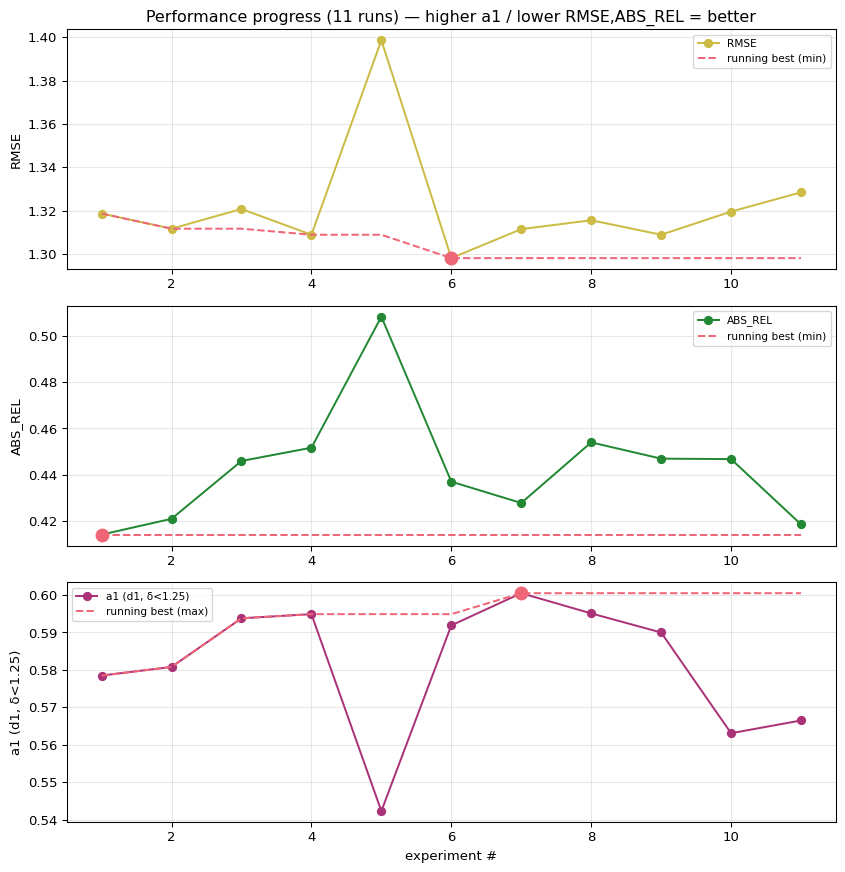
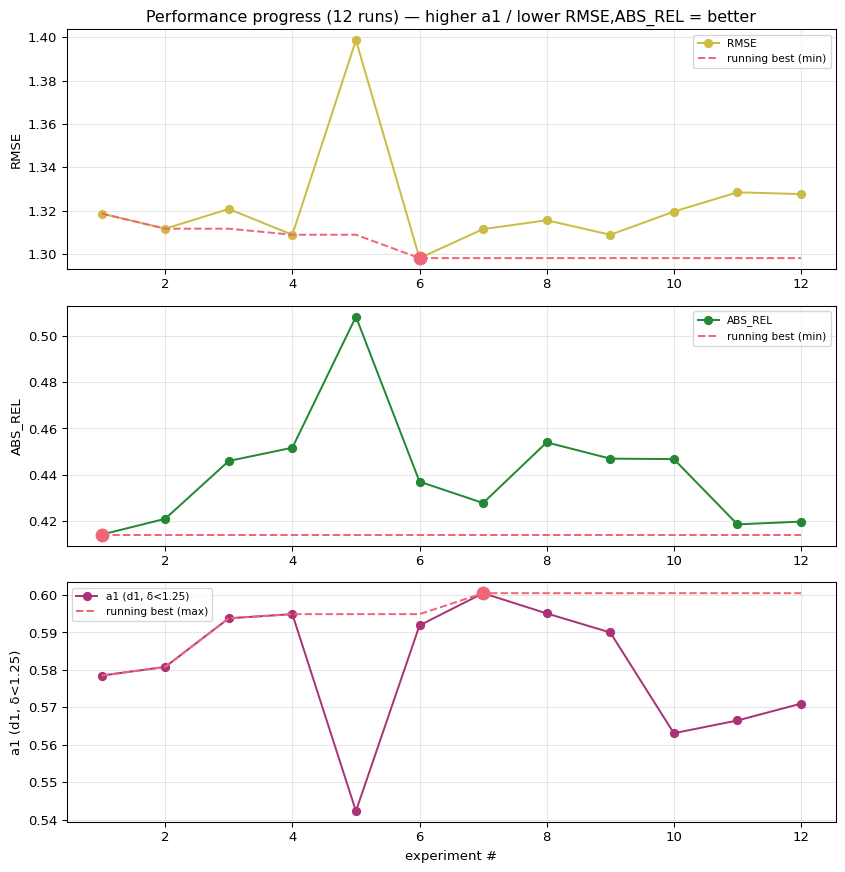
E11: first CONVERGED 2-layer RayDPT -- D9 is 25% budget, 75% still unexplained
E11 raydpt_e11_d32L2_kve4: abs_rel 0.4199  rmse 1.3276  d1 0.5710  composite 1.9093
23 epochs at 143.3 s/epoch, best checkpoint epoch 22 of 23, val loss flat over the last three.
Best RayDPT of the phase, and the first 2-layer configuration ever to converge.

    run                 layers  KV   d1       composite  epochs  best  converged
    E9  d32 L1 kv=e3      1     e3   0.5631   1.9308     21      18    yes
    E10 d32 L2 kv=e3      2     e3   0.5665   1.9192     15      15    NO
    E11 d32 L2 kv=e4      2     e4   0.5710   1.9093     23      22    yes
    E3  batvision         -     -    0.5949   1.8567     25      13    yes

I12 validated on the way: the cost of a ray cross-attention layer is its KV SET, not its FFN.
Shrinking the FFN 4x->2x saves 2 s/epoch; shrinking cr32's KV from e3 (2048 tokens) to e4
(512) takes 231.6 -> 145.4 s/epoch at IDENTICAL parameter count. That is what made a converged
2-layer model possible, and therefore what made D9 answerable at all.

D9's verdict, and it is a split one. On a CONVERGED 2-layer model d1 recovers +0.0079, closing
25% of the 0.0318 gap to batvision. So the angular deficit is PARTLY a budget artefact (H2) --
E10's d1 really was a lower bound on a model still learning -- and PARTLY not: 0.0239 survives
convergence. H1 (ray-conditioning does not aid angular assignment on this task) still stands
for the remaining three quarters. RayDPT still trails the reference by 0.0526 overall.
[…]

diff --git a/README.md b/README.md
@@ -30,7 +30,6 @@ Autonomous research — binaural echoes → ERP planar (cubemap) depth (SoundSpa
 | `I5` | ray conditioning / encoder-decoder correspondence | mid | RayDPT's DPT skip connections impose a FALSE spatial correspondence between the spectrogram's axes and the ERP's axes | inconclusive | none. Do not spend GPU on the skip ablation on this rationale. Revive only with an indepen |
 | `I7` | sensing physics / angular resolution | far | two microphones may fundamentally under-determine high azimuthal frequencies | candidate | Do not chase high-frequency power as a goal. Re-test the observability claim once RayDPT c |
 | `I10` | acoustic-representation / interpolation | mid | the nearest-neighbour resize in _features() turns the time axis into a coarse staircase | inconclusive | deferred confirm: run `--feat-interp bilinear --stft-hop 40` after the RayDPT throughput s |
-| `I12` | ray conditioning / attention cost | near | ray cross-attention costs 67% of forward because it runs over 8192 (and 2048) ray queries | backlog | bench the two cost levers, then run the one that converges. This is the experiment that fi |
 
 ### Open discrepancies
 
@@ -49,6 +48,7 @@ Autonomous research — binaural echoes → ERP planar (cubemap) depth (SoundSpa
 
 | When | Mode | Event | Note |
 |---|---|---|---|
+| 2026-07-10T13:11 | `verify` | experiment_completed | First CONVERGED 2-layer RayDPT: composite 1.9093 (best RayDPT), d1 0.5710, 23 epochs, best at ep22. d1 recovers +0.0079 over E9, c |
 | 2026-07-10T12:09 | `verify` | discrepancy_recorded | D10 (methodological): small-sample diagnostics REVERSE their sign. 60 samples said RayDPT's d1 beat batvision's; the full 3543 say |
 | 2026-07-10T12:03 | `synthesize` | divergence_checkpoint | DC1 after S0-S4. Seven competing hypotheses across six causal families (mechanism, budget, capacity, sensing physics, encoder-deco |
 | 2026-07-10T12:01 | `synthesize` | experiment_completed | cross-layers restored to 2 at decode 32: composite 1.9192 (beats converged E9's 1.9308), but 15 epochs and best = LAST epoch -- di |
@@ -56,7 +56,6 @@ Autonomous research — binaural echoes → ERP planar (cubemap) depth (SoundSpa
 | 2026-07-10T10:55 | `verify` | discrepancy_recorded | D9: the ray-conditioned model loses to a plain U-Net almost entirely on d1 (angle), while tying on rmse (range). It is losing exac |
 | 2026-07-10T10:55 | `verify` | experiment_completed | CONVERGED RayDPT: composite 1.9308, 21 epochs, best at ep18/21. Beats starved E4 (2.0471) by 0.1162 = 14 sigma. D5 confirmed: RayD |
 | 2026-07-10T09:51 | `exploit` | direction_changed | Pure speed exhausted at 1.4x (500 s/epoch, 7.2 epochs). Reaching 25 epochs needs a CAPACITY cut, recorded as such: decode_scale 32 |
-| 2026-07-10T09:42 | `exploit` | experiment_completed | I10 discriminator (bilinear at hop160, information identical to E2): rmse -0.0119 (52% of E5's gain, predicted direction) but d1 - |
 
 *Updated by `python utils/report.py research`. Champion: none yet.*
 <!-- RESEARCH:END -->
@@ -101,6 +100,7 @@ running best highlighted):
 | 9 | `7fae910` | 0.4470 | 1.3088 | 0.5900 | 1.8658 | keep | E8 batvision 5ch nolog win400 hop160 BILINEAR resize (I10: staircase discriminator) |
 | 10 | `bb9692d` | 0.4468 | 1.3195 | 0.5631 | 1.9309 | keep | E9 RayDPT decode32 xlayers1 batch64 lr1.2e-3 bf16 ep25 (S3: does a CONVERGED RayDPT beat a starved one?) |
 | 11 | `bc415a2` | 0.4187 | 1.3284 | 0.5665 | 1.9192 | keep | E10 RayDPT decode32 xlayers2 batch64 (S4: was the cross-layer cut load-bearing?) |
+| 12 | `c147692` | 0.4199 | 1.3276 | 0.5710 | 1.9093 | keep | E11 RayDPT decode32 xlayers2 kv=e4 batch64 (S5/H2: first CONVERGED 2-layer RayDPT) |
 <!-- RESULTS:END -->
 
 ## Progression (composite, lower = better)